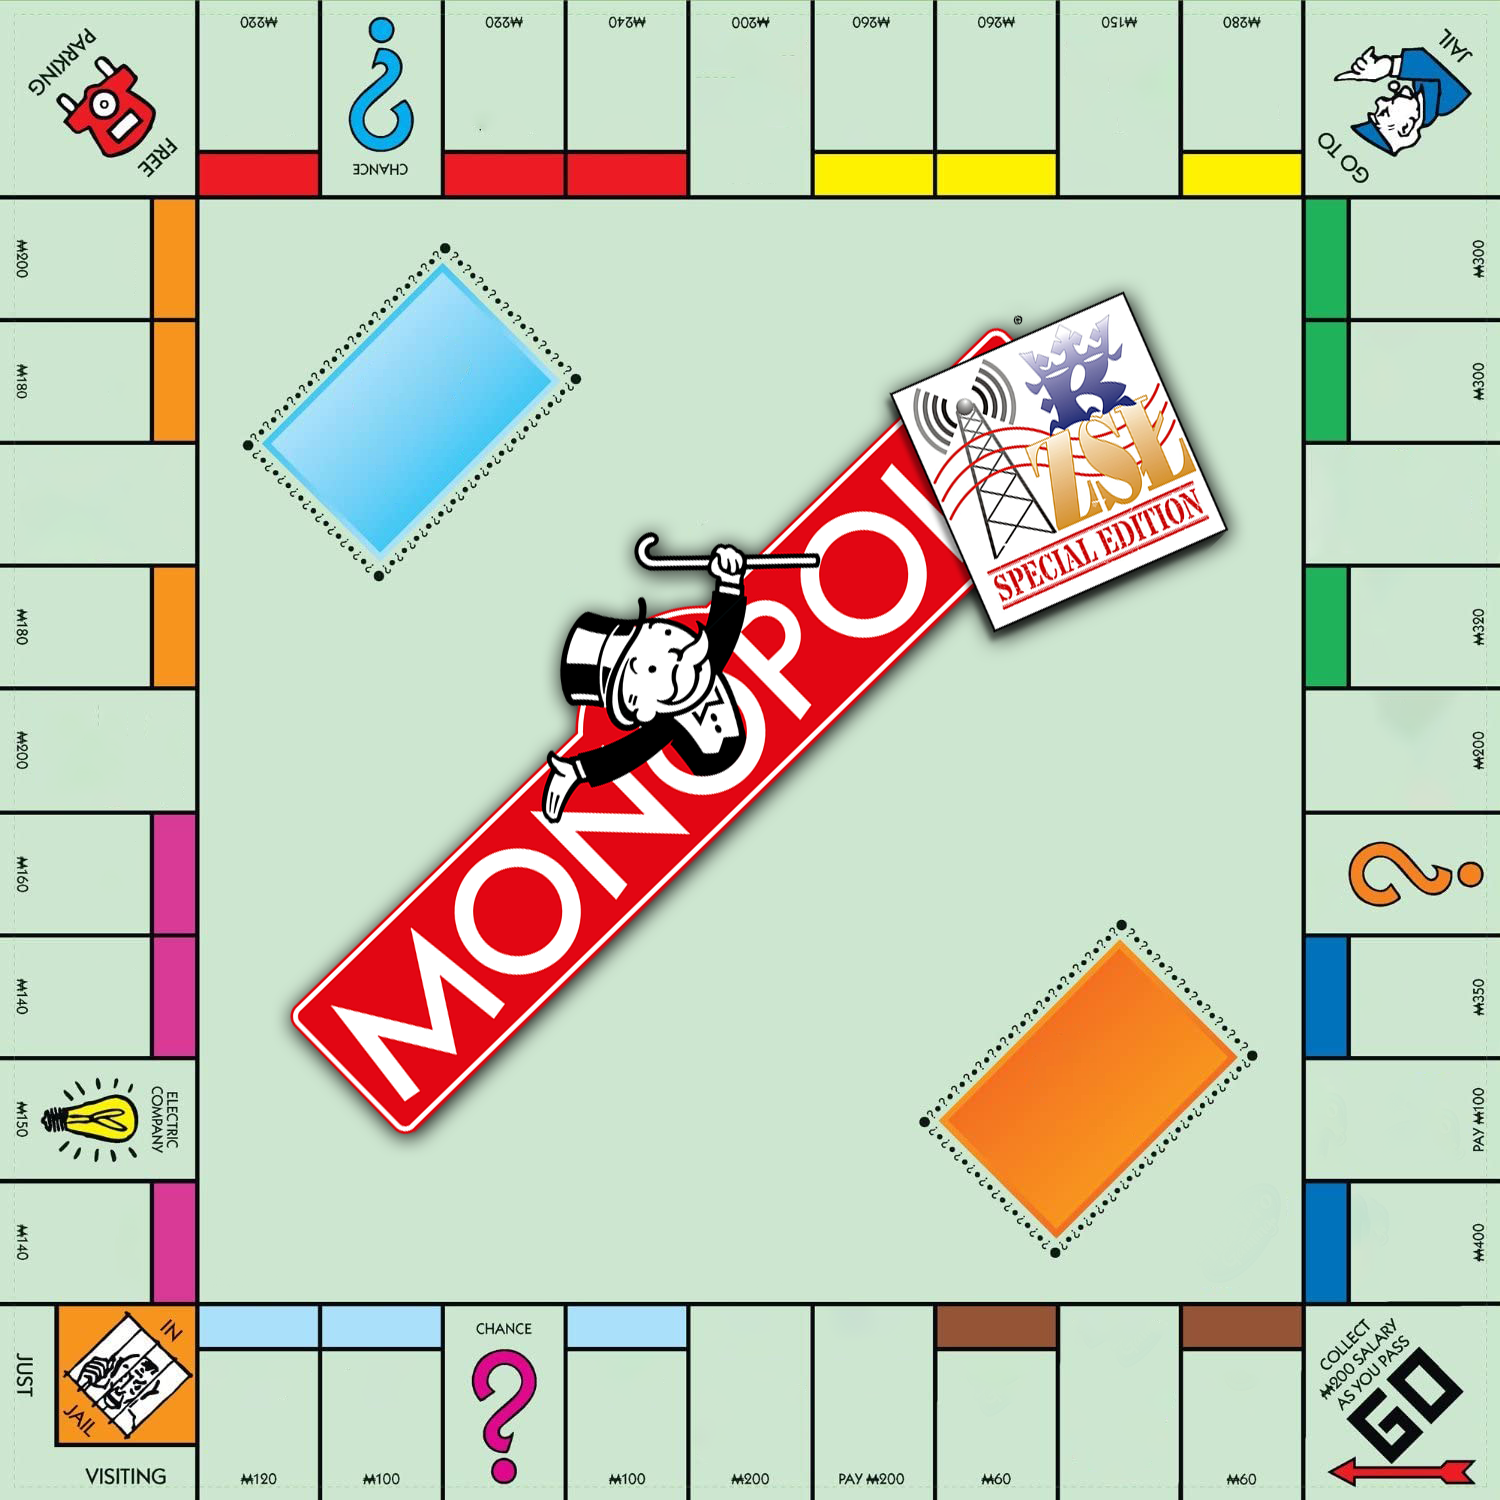
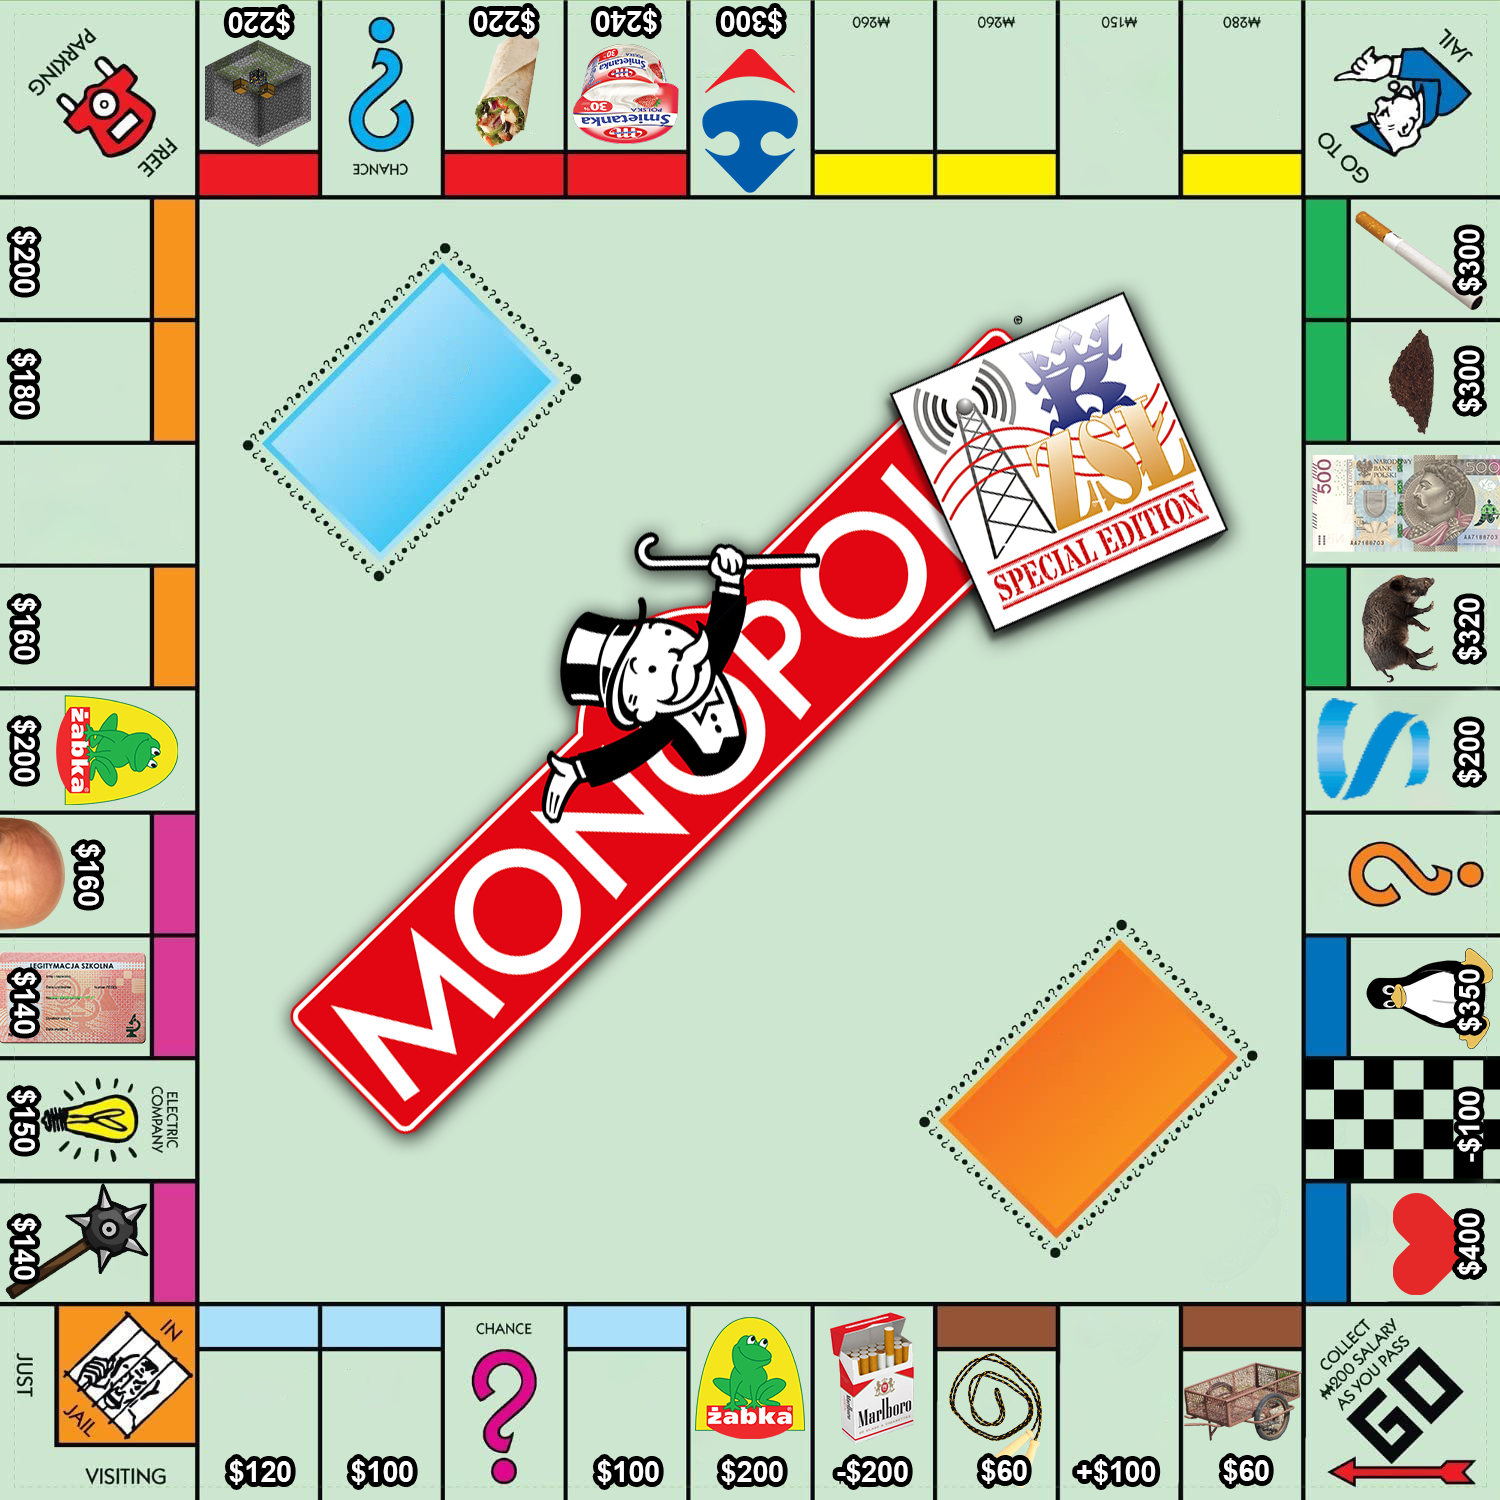
addes fields names

diff --git a/backend/GamePostService.js b/backend/GamePostService.js
@@ -94,7 +94,7 @@ class GamePostService {
                     this.fields[req.body.fieldIdx].action = "take"
                     this.fields[req.body.fieldIdx].value = 100 //WSTAWIC OPLATE NA PODSTAWIE LICZBY DOMKÓW I ID POLA
                     this.fields[req.body.fieldIdx].owner = req.body.player_id;
-                    this.fields[req.body.fieldIdx].price = 0; //POLE STAJE SIE NIEKUPOWALNE
+                    //this.fields[req.body.fieldIdx].price = 0; //POLE STAJE SIE NIEKUPOWALNE
 
                     game.lastAction = "Gracz " + game.playerList[req.body.player_id].nick + " (" + game.playerList[req.body.player_id].skin + ") kupił " + this.fields[req.body.fieldIdx].name;
                 }
@@ -113,7 +113,6 @@ class GamePostService {
             case "build": //gracz wywołał akcję BUILD
                 let price = this.fields[req.body.fieldIdx].price * (1.5 * req.body.type);
                 game.playerList[req.body.player_id].cash -= price;
-                console.log(req.body.type)
                 this.fields[req.body.fieldIdx].shops.push(req.body.type);
                 game.lastAction = "Gracz " + game.playerList[req.body.player_id].nick + " (" + game.playerList[req.body.player_id].skin + ") rozbudował " +
                     this.fields[req.body.fieldIdx].name + " za " + String(price) + "$";

diff --git a/backend/database/GameDBService.js b/backend/database/GameDBService.js
@@ -18,15 +18,15 @@ class GameDBService {
 
     async getFields() {
         return new Promise((resolve, reject) => {
-                try {
-                    this.fields.find({}).sort({id: 1}).exec(function (err, docs) {
-                        resolve(docs)
-                    })
-                } catch
-                    (ex) {
-                    reject(ex)
-                }
+            try {
+                this.fields.find({}).sort({ id: 1 }).exec(function (err, docs) {
+                    resolve(docs)
+                })
+            } catch
+            (ex) {
+                reject(ex)
             }
+        }
         )
     }
 }

diff --git a/game/Ui.js b/game/Ui.js
@@ -105,8 +105,9 @@ export class Ui {
     }
 
     updateBlockInfo = (id) => {
+        let restricted_names = ["brak", "Dyrektor Piszkowski", "i tak to idzie na fajki"];
         document.getElementById("block_name").innerText = this.game.fields[id].name;
-        if (this.game.fields[id].owner !== "brak") {
+        if (!restricted_names.includes(this.game.fields[id].owner)) {
             document.getElementById("block_owner").innerText = "Właściciel: " + this.playerList[this.game.fields[id].owner].skin;
         } else {
             document.getElementById("block_owner").innerText = "Właściciel: " + this.game.fields[id].owner;
